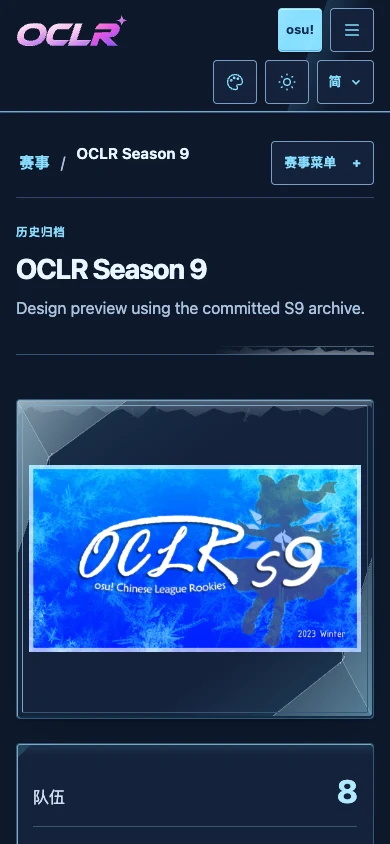
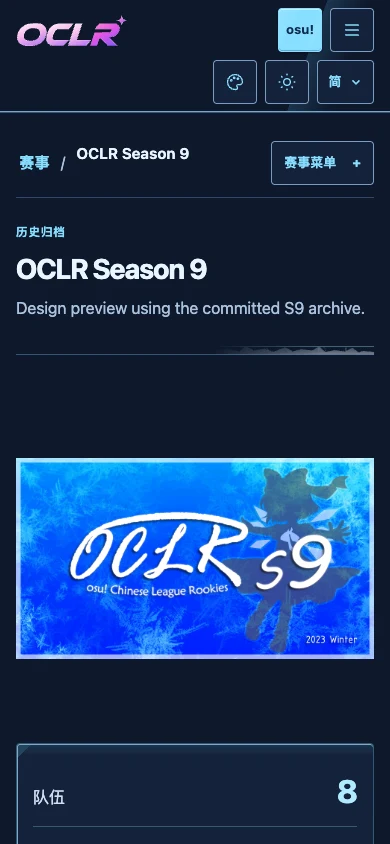
design(s9): remove ice frame around the original artwork (#196)

Changed region(s): [[0.0308, 0.4621, 0.9846, 0.8626]]

diff --git a/docs/design/season-themes/s9.css b/docs/design/season-themes/s9.css
@@ -122,9 +122,6 @@ html[data-s9-preview]
   font-variant-numeric: tabular-nums;
 }
 @media (forced-colors: active) {
-  html[data-s9-preview] .themed-site .archive-key-visual {
-    background: none;
-  }
   html[data-s9-preview] .themed-site .page-heading::after {
     background: CanvasText;
   }
@@ -151,7 +148,6 @@ html[data-s9-preview] .themed-site {
   --ice-well: #f6fafd;
   --ice-shadow: #23527314;
   --ice-contact: #1e56751a;
-  --ice-frost-opacity: .6;
   --ice-slab:
     linear-gradient(135deg, var(--ice-facet) 0 10px, transparent 10.5px)
       top left / 24px 24px no-repeat,
@@ -176,7 +172,6 @@ html[data-s9-preview][data-theme="dark"] .themed-site {
   --ice-well: #101e32;
   --ice-shadow: #0005;
   --ice-contact: #0006;
-  --ice-frost-opacity: .3;
 }
 html[data-s9-preview] .themed-site .site-header {
   border-bottom: 1px solid var(--ice-rim);
@@ -202,40 +197,6 @@ html[data-s9-preview] .themed-site .page-heading::after {
   border-bottom: 1px solid var(--ice-rim-bright);
   transform: scaleY(-1);
   opacity: .7;
-  pointer-events: none;
-}
-html[data-s9-preview] .themed-site .archive-key-visual {
-  position: relative;
-  padding: 16px;
-  border: 1px solid var(--ice-rim);
-  border-radius: 4px;
-  background:
-    var(--ice-facets) center / 100% 100% no-repeat,
-    linear-gradient(145deg, var(--ice-etch), var(--site-surface) 32% 72%, var(--ice-facet));
-  box-shadow:
-    inset 0 1px 0 var(--ice-rim-bright),
-    inset 1px 0 0 var(--ice-rim-bright),
-    inset -1px -2px 0 var(--ice-rim-shade),
-    0 3px 5px -3px var(--ice-contact),
-    0 16px 40px -24px var(--ice-shadow);
-}
-html[data-s9-preview] .themed-site .archive-key-visual::before {
-  content: "";
-  position: absolute;
-  inset: 1px 1px auto;
-  height: 40px;
-  background: var(--ice-frost) center top / 1000px 64px repeat-x;
-  opacity: var(--ice-frost-opacity);
-  pointer-events: none;
-}
-html[data-s9-preview] .themed-site .archive-key-visual::after {
-  content: "";
-  position: absolute;
-  inset: 5px;
-  border: 1px solid var(--ice-rim-bright);
-  border-right-color: var(--ice-rim);
-  border-bottom-color: var(--ice-rim);
-  border-radius: 2px;
   pointer-events: none;
 }
 html[data-s9-preview] .themed-site .archive-counts {
@@ -319,25 +280,17 @@ html[data-s9-preview] .themed-site .map-slot-badge {
   html[data-s9-preview] .themed-site .page-heading::after {
     opacity: .5;
   }
-  html[data-s9-preview] .themed-site .archive-key-visual {
-    padding: 12px;
-    background-size: 100% 100%, auto;
-  }
-  html[data-s9-preview] .themed-site .archive-key-visual::before {
-    background-size: 800px 51px;
-  }
   html[data-s9-preview] .themed-site .archive-counts {
     padding-inline: 16px;
   }
 }
 @media (forced-colors: active) {
-  html[data-s9-preview] .themed-site :is(.site-header, .page-heading, .archive-key-visual, .archive-counts, .rules-article, .rules-desktop-contents, .rules-mobile-contents, .settings-card, .map-browse-card, .map-card-cover, .nav-login, input, select, textarea) {
+  html[data-s9-preview] .themed-site :is(.site-header, .page-heading, .archive-counts, .rules-article, .rules-desktop-contents, .rules-mobile-contents, .settings-card, .map-browse-card, .map-card-cover, .nav-login, input, select, textarea) {
     background: Canvas;
     box-shadow: none;
     border-color: CanvasText;
   }
-  html[data-s9-preview] .themed-site .archive-key-visual::before,
-  html[data-s9-preview] .themed-site :is(.page-heading, .archive-key-visual)::after {
+  html[data-s9-preview] .themed-site .page-heading::after {
     display: none;
   }
   html[data-s9-preview] .themed-site .public-tournament .tournament-navigation :is(nav, a) {

diff --git a/docs/design/season-themes/README.md b/docs/design/season-themes/README.md
@@ -6,7 +6,7 @@
 
 S10 的 `s10.html` 現為**實際截圖對照圖庫**，可切換頁面、尺寸、明暗及最新原有風格／S10 候選。它只在本機展示圖片，不連接 API、DB 或儲存偏好。重新產生 S10 圖片需獨立應用與可丟棄 test DB；見 [S10 設計與重現步驟](s10/DESIGN.md)。S8／S7 的既有靜態樣本保持原樣。
 
-**2026-10-26 S9 更新**：[S9 #196](https://github.com/OCLR-dev/OCLR-website/issues/196) 依相同要求，已同步 main `0d3e203` 的實際 UI 並重新建置產圖。精修版以分級細晶脈、稀疏霜枝、薄切面、統一左上光源與輕量資料面呈現冰晶，搭配霜白／鈷藍與 4px 幾何，保留完整 16:9 原圖。`s9.html` 同樣為截圖對照圖庫；重現步驟與驗證見 [S9 DESIGN](s9/DESIGN.md)。
+**2026-10-26 S9 更新**：[S9 #196](https://github.com/OCLR-dev/OCLR-website/issues/196) 依相同要求，已同步 main `0d3e203` 的實際 UI 並重新建置產圖。精修版移除主視覺冰框，以無框完整原圖、分級細晶脈、標題薄霜、統一左上光源與輕量資料面呈現冰晶，搭配霜白／鈷藍與 4px 幾何，保留完整 16:9 原圖。`s9.html` 同樣為截圖對照圖庫；重現步驟與驗證見 [S9 DESIGN](s9/DESIGN.md)。
 
 | Season | 提案                        | 可操作樣本           | 設計規格                | 預覽                                                                                              |
 | ------ | --------------------------- | -------------------- | ----------------------- | ------------------------------------------------------------------------------------------------- |
